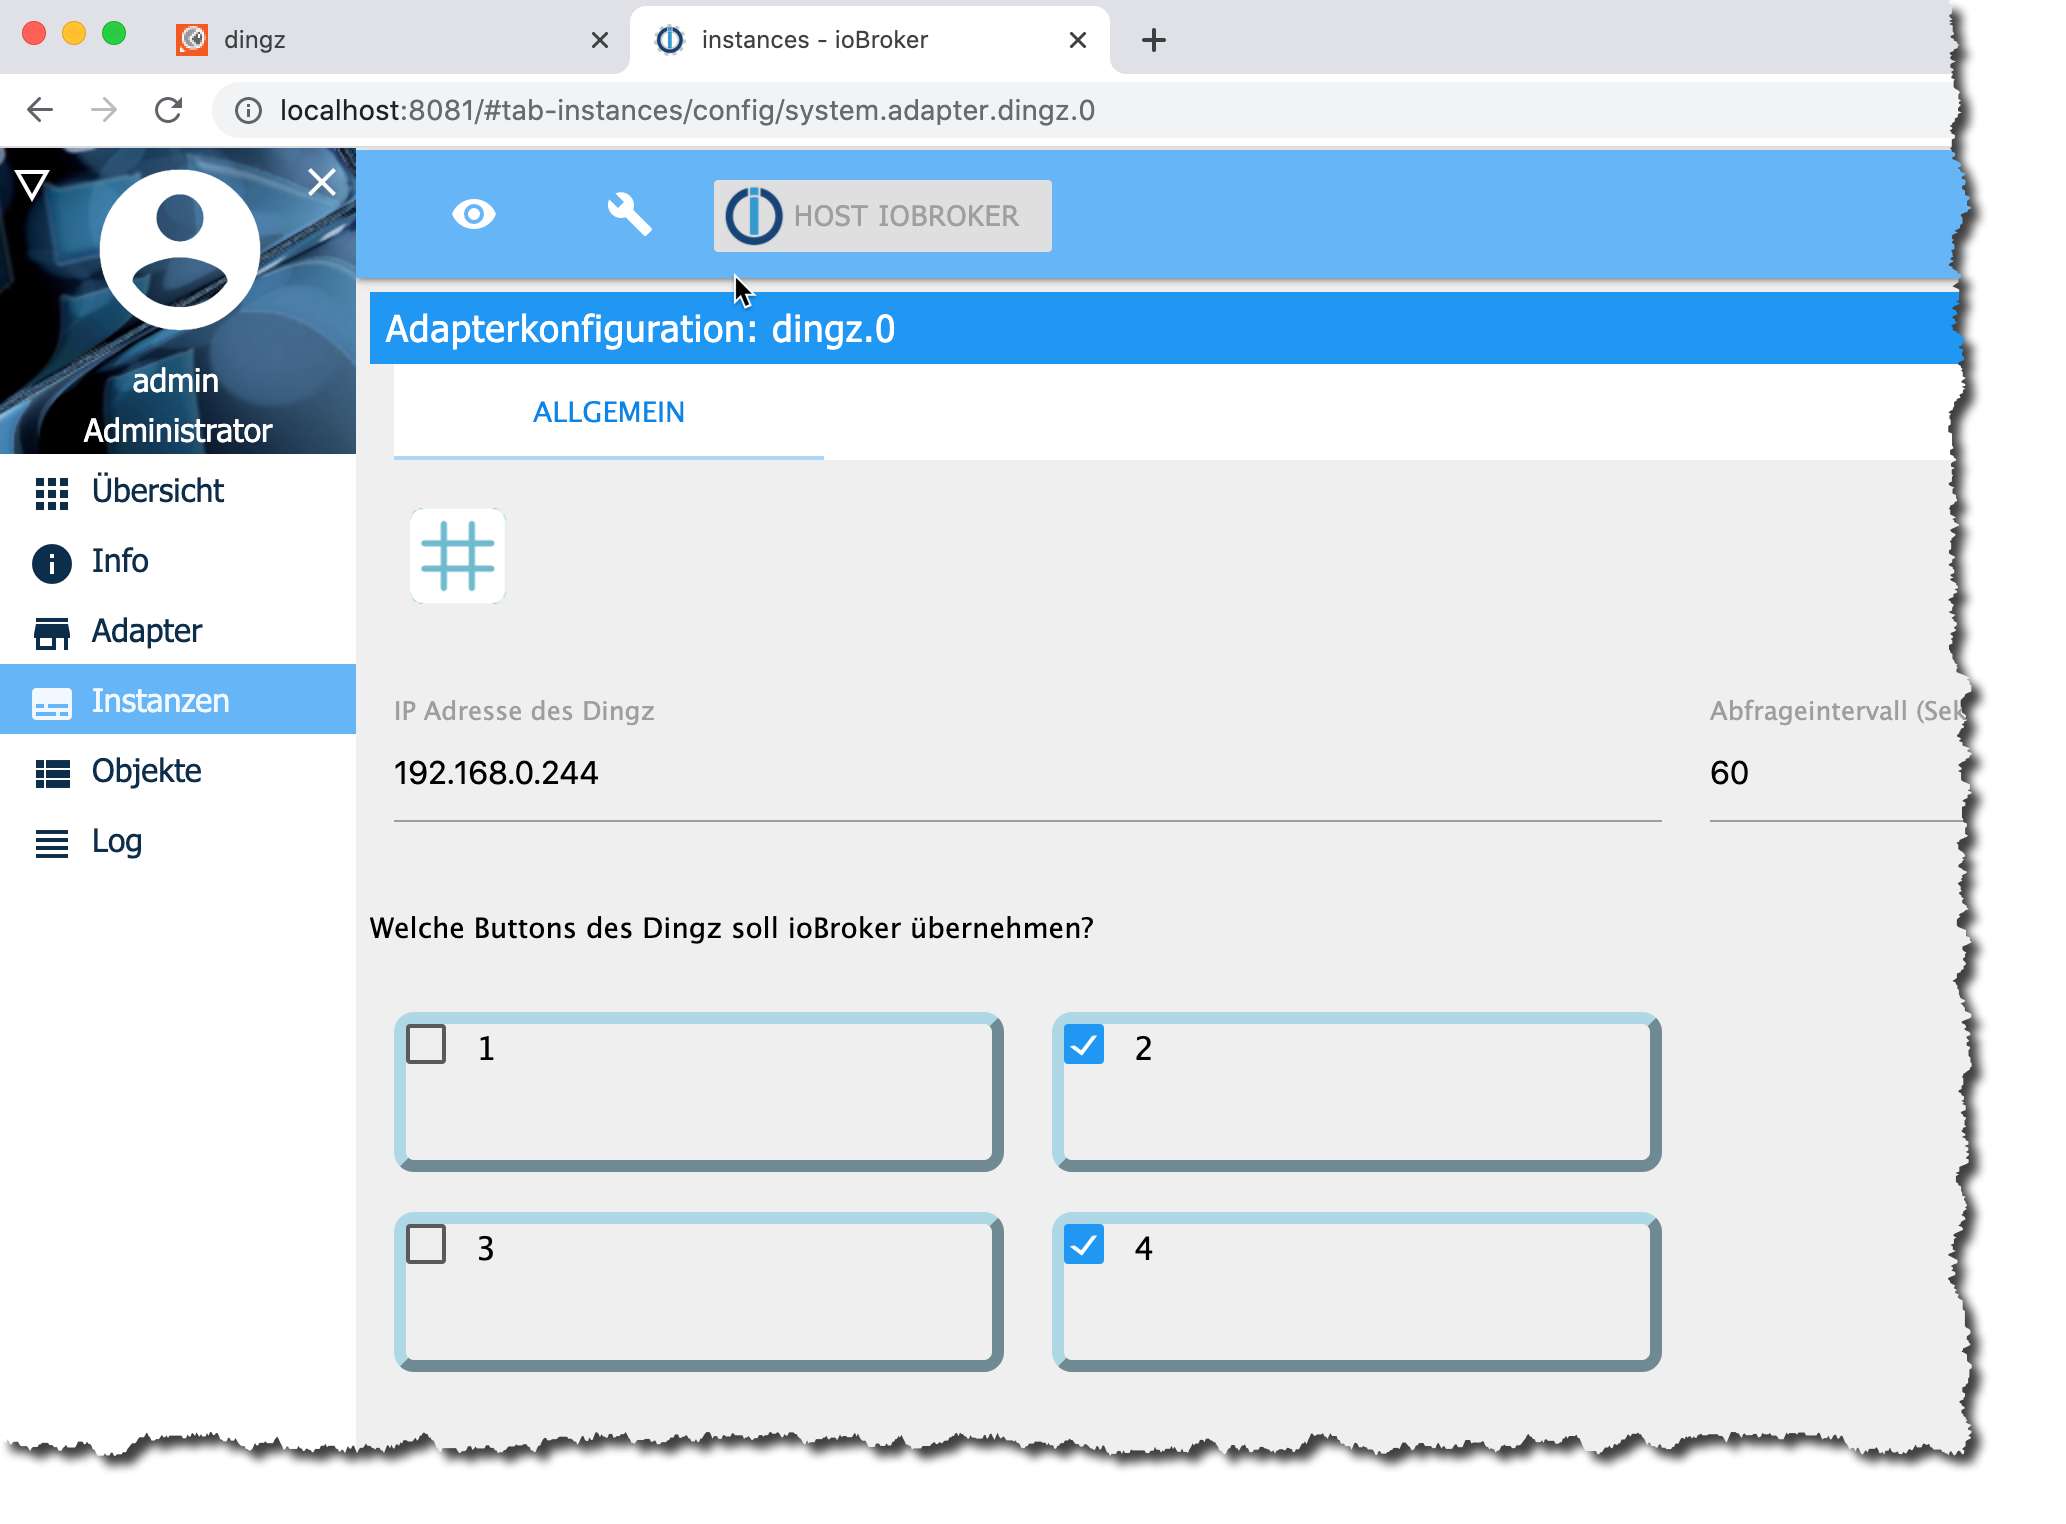
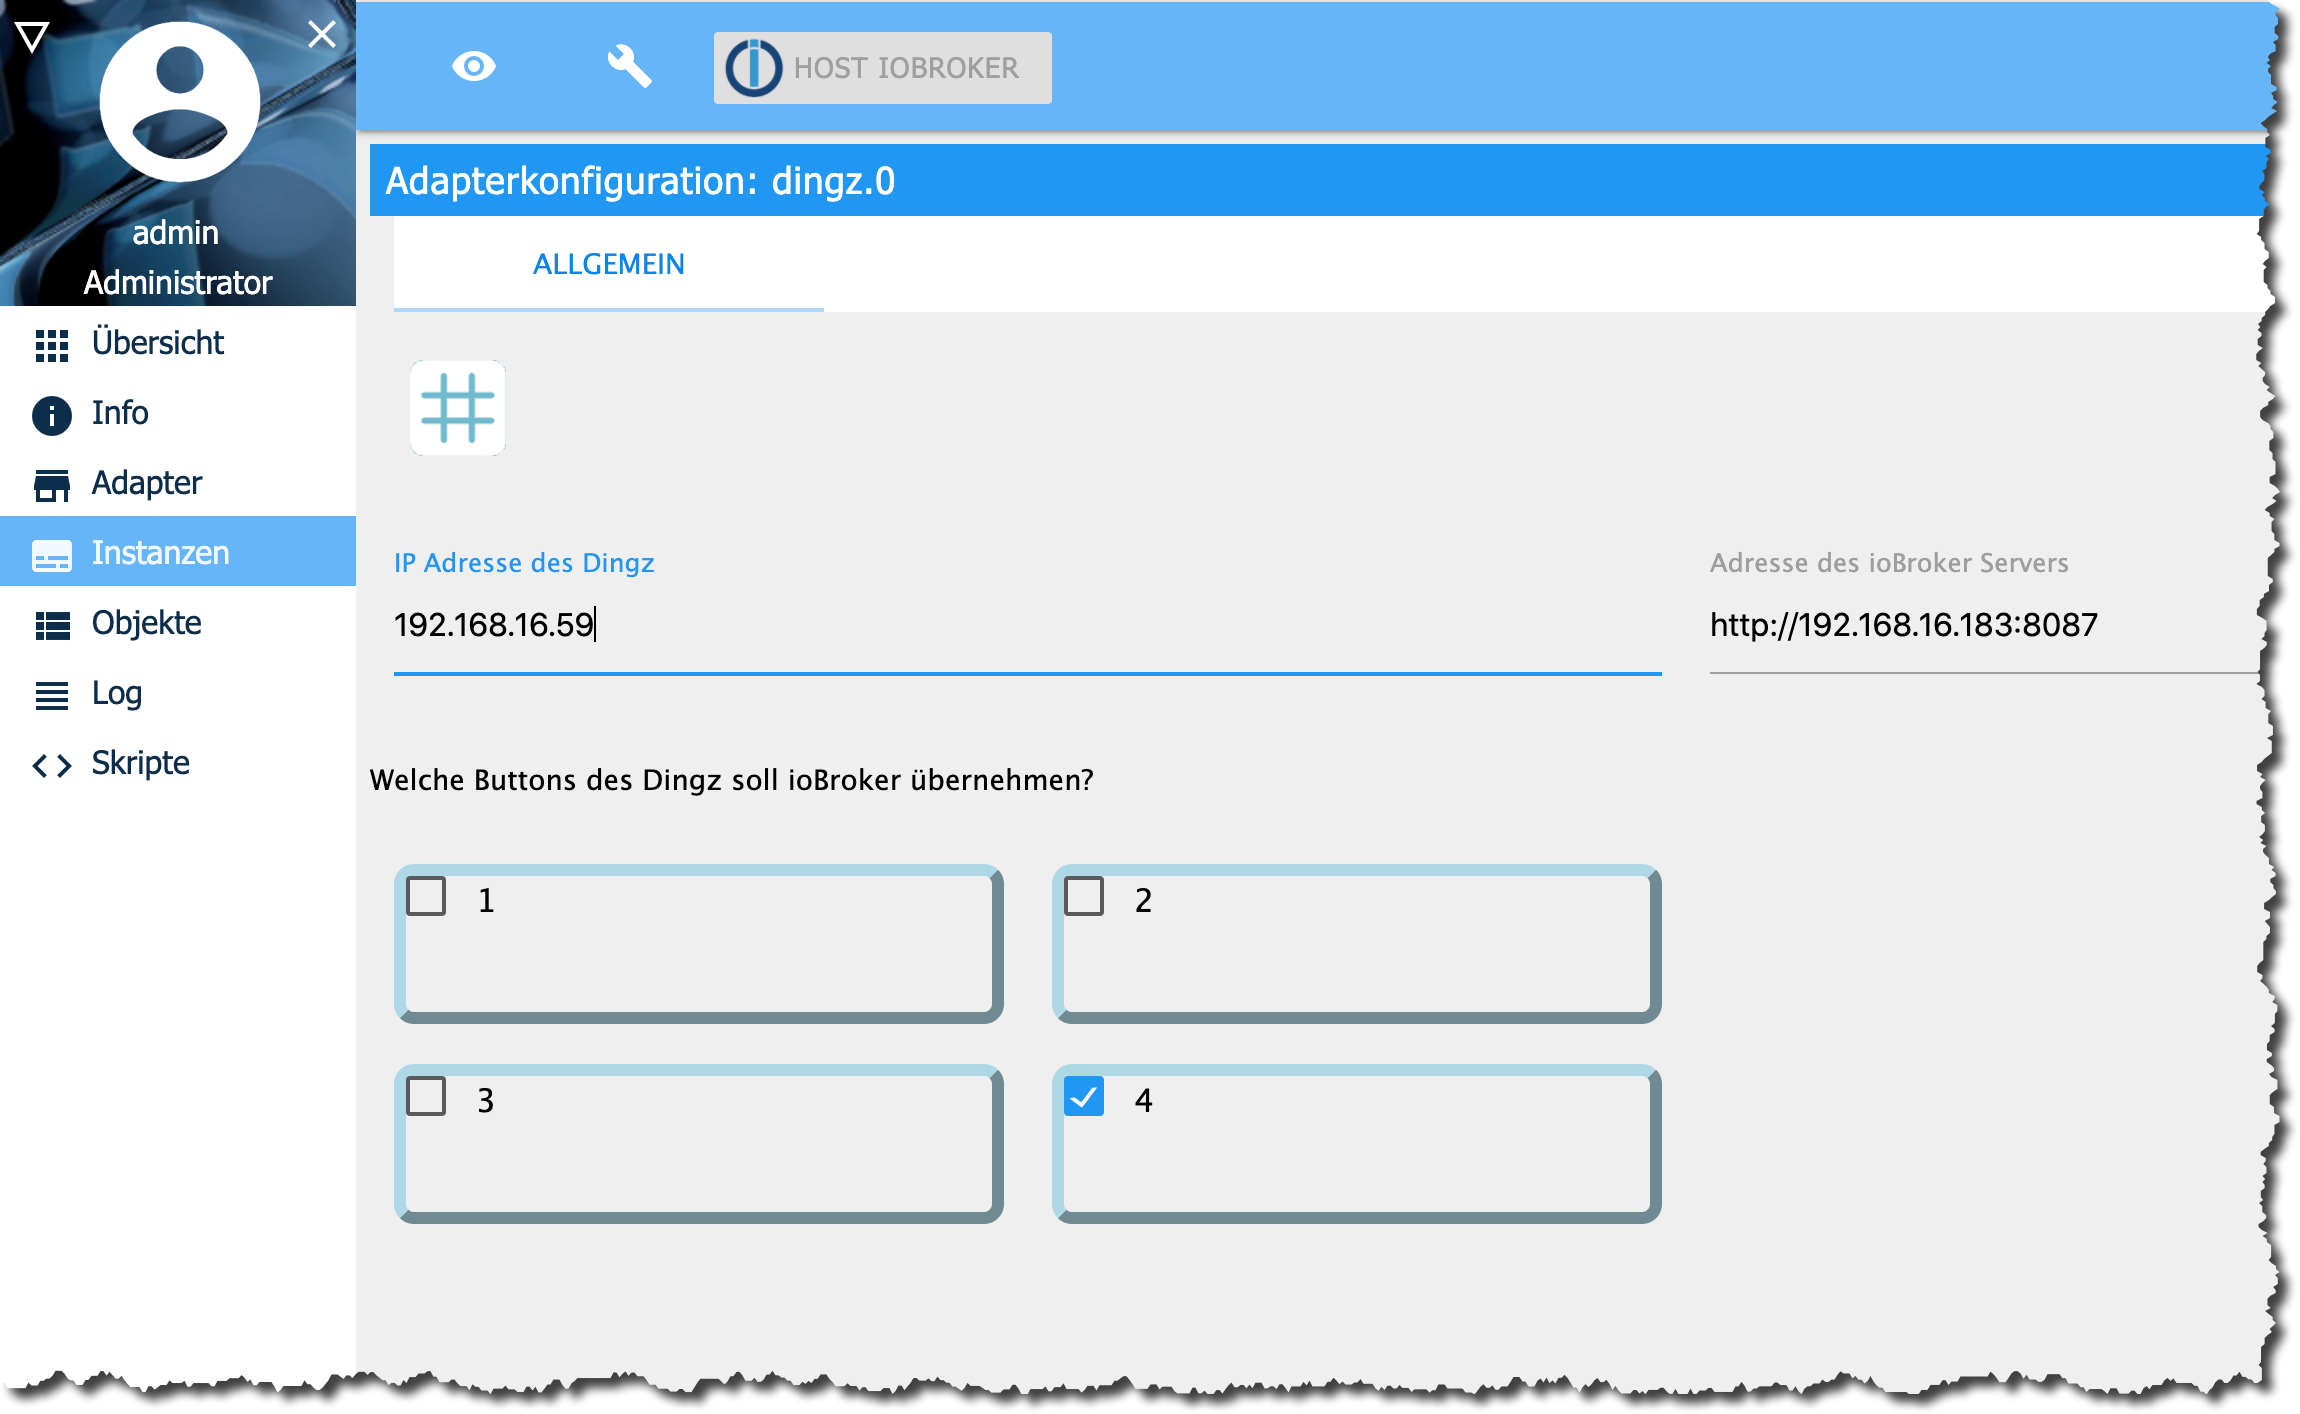
prerelase doc

diff --git a/admin/words.js b/admin/words.js
@@ -2,116 +2,121 @@
 "use strict";
 
 systemDictionary = {
-    "dingz adapter settings": {
-        "en": "Adapter settings for dingz",
-        "de": "Adaptereinstellungen für dingz",
-        "ru": "Настройки адаптера для dingz",
-        "pt": "Configurações do adaptador para dingz",
-        "nl": "Adapterinstellingen voor dingz",
-        "fr": "Paramètres d'adaptateur pour dingz",
-        "it": "Impostazioni dell'adattatore per dingz",
-        "es": "Ajustes del adaptador para dingz",
-        "pl": "Ustawienia adaptera dla dingz",
-        "zh-cn": "dingz的适配器设置"
-    },
-    "url": {
-        "en": "IP address of the device",
-        "de": "IP Adresse des Dingz",
-        "ru": "Опция 1",
-        "pt": "Opção 1",
-        "nl": "Optie 1",
-        "fr": "Option 1",
-        "it": "opzione 1",
-        "es": "Opción 1",
-        "pl": "opcja 1",
-        "zh-cn": "选项1"
-    },
-    "interval": {
-        "en": "polling interval (seconds)",
-        "de": "Abfrageintervall (Sekunden",
-        "ru": "option2",
-        "pt": "opção 2",
-        "nl": "Optie 2",
-        "fr": "Option 2",
-        "it": "opzione 2",
-        "es": "opcion 2",
-        "pl": "Opcja 2",
-        "zh-cn": "选项2"
-    },
-    "myColor": {
-        "en": "myColor",
-        "de": "meineColor",
-        "ru": "Мой цвет",
-        "pt": "minhaCor",
-        "nl": "mijnKleur",
-        "fr": "maCouleur",
-        "it": "mioColore",
-        "es": "miColor",
-        "pl": "mójKolor",
-        "zh-cn": "我的颜色"
-    },
-    "myColor_tooltip": {
-        "en": "Description of\nmyColor",
-        "de": "Beschreibung von\nmyColor",
-        "ru": "Описание\nmyColor",
-        "pt": "Descrição de\nmyColor",
-        "nl": "Beschrijving van\nmyColor",
-        "fr": "Description de\nmyColor",
-        "it": "Descrizione di\nmyColor",
-        "es": "Descripción de\nmyColor",
-        "pl": "Opis\nmyColor",
-        "zh-cn": "\nmyColor的描述"
-    },
-    "htmlText": {
-        "en": "htmlText",
-        "de": "htmlText",
-        "ru": "htmlText",
-        "pt": "htmlText",
-        "nl": "htmlText",
-        "fr": "htmlText",
-        "it": "htmlText",
-        "es": "htmlText",
-        "pl": "htmlText",
-        "zh-cn": "htmlText"
-    },
-    "group_extraMyset": {
-        "en": "extraMyset",
-        "de": "extraMyset",
-        "ru": "extraMyset",
-        "pt": "extraMyset",
-        "nl": "extraMyset",
-        "fr": "extraMyset",
-        "it": "extraMyset",
-        "es": "extraMyset",
-        "pl": "extraMyset",
-        "zh-cn": "extraMyset"
-    },
-    "extraAttr": {
-        "en": "extraAttr",
-        "de": "extraAttr",
-        "ru": "extraAttr",
-        "pt": "extraAttr",
-        "nl": "extraAttr",
-        "fr": "extraAttr",
-        "it": "extraAttr",
-        "es": "extraAttr",
-        "pl": "extraAttr",
-        "zh-cn": "extraAttr"
-    },
-    "Instance": {
-        "en": "Instance",
-        "de": "Instanz",
-        "ru": "Инстанция",
-        "pt": "Instância",
-        "nl": "Instantie",
-        "fr": "Instance",
-        "it": "Esempio",
-        "es": "Instancia",
-        "pl": "Instancja",
-        "zh-cn": "例"
-    },
-    "hostadress":{
-      "en": "Address of ioBroker host",
-      "de": "Adresse des ioBroker Servers"
-    }
+  "dingz adapter settings": {
+    "en": "Adapter settings for dingz",
+    "de": "Adaptereinstellungen für dingz",
+    "ru": "Настройки адаптера для dingz",
+    "pt": "Configurações do adaptador para dingz",
+    "nl": "Adapterinstellingen voor dingz",
+    "fr": "Paramètres d'adaptateur pour dingz",
+    "it": "Impostazioni dell'adattatore per dingz",
+    "es": "Ajustes del adaptador para dingz",
+    "pl": "Ustawienia adaptera dla dingz",
+    "zh-cn": "dingz的适配器设置"
+  },
+  "url": {
+    "en": "IP address of the device",
+    "de": "IP Adresse des Dingz",
+    "ru": "Опция 1",
+    "pt": "Opção 1",
+    "nl": "Optie 1",
+    "fr": "Option 1",
+    "it": "opzione 1",
+    "es": "Opción 1",
+    "pl": "opcja 1",
+    "zh-cn": "选项1"
+  },
+  "interval": {
+    "en": "polling interval (seconds)",
+    "de": "Abfrageintervall (Sekunden",
+    "ru": "option2",
+    "pt": "opção 2",
+    "nl": "Optie 2",
+    "fr": "Option 2",
+    "it": "opzione 2",
+    "es": "opcion 2",
+    "pl": "Opcja 2",
+    "zh-cn": "选项2"
+  },
+  "myColor": {
+    "en": "myColor",
+    "de": "meineColor",
+    "ru": "Мой цвет",
+    "pt": "minhaCor",
+    "nl": "mijnKleur",
+    "fr": "maCouleur",
+    "it": "mioColore",
+    "es": "miColor",
+    "pl": "mójKolor",
+    "zh-cn": "我的颜色"
+  },
+  "myColor_tooltip": {
+    "en": "Description of\nmyColor",
+    "de": "Beschreibung von\nmyColor",
+    "ru": "Описание\nmyColor",
+    "pt": "Descrição de\nmyColor",
+    "nl": "Beschrijving van\nmyColor",
+    "fr": "Description de\nmyColor",
+    "it": "Descrizione di\nmyColor",
+    "es": "Descripción de\nmyColor",
+    "pl": "Opis\nmyColor",
+    "zh-cn": "\nmyColor的描述"
+  },
+  "htmlText": {
+    "en": "htmlText",
+    "de": "htmlText",
+    "ru": "htmlText",
+    "pt": "htmlText",
+    "nl": "htmlText",
+    "fr": "htmlText",
+    "it": "htmlText",
+    "es": "htmlText",
+    "pl": "htmlText",
+    "zh-cn": "htmlText"
+  },
+  "group_extraMyset": {
+    "en": "extraMyset",
+    "de": "extraMyset",
+    "ru": "extraMyset",
+    "pt": "extraMyset",
+    "nl": "extraMyset",
+    "fr": "extraMyset",
+    "it": "extraMyset",
+    "es": "extraMyset",
+    "pl": "extraMyset",
+    "zh-cn": "extraMyset"
+  },
+  "extraAttr": {
+    "en": "extraAttr",
+    "de": "extraAttr",
+    "ru": "extraAttr",
+    "pt": "extraAttr",
+    "nl": "extraAttr",
+    "fr": "extraAttr",
+    "it": "extraAttr",
+    "es": "extraAttr",
+    "pl": "extraAttr",
+    "zh-cn": "extraAttr"
+  },
+  "Instance": {
+    "en": "Instance",
+    "de": "Instanz",
+    "ru": "Инстанция",
+    "pt": "Instância",
+    "nl": "Instantie",
+    "fr": "Instance",
+    "it": "Esempio",
+    "es": "Instancia",
+    "pl": "Instancja",
+    "zh-cn": "例"
+  },
+  "hostadress": {
+    "en": "Address of ioBroker host",
+    "de": "Adresse des ioBroker Servers"
+  },
+  "whichbutton": {
+    "en": "Which of the dingz buttons should ioBroker control?",
+    "de": "Welche Buttons des Dingz soll ioBroker übernehmen?"
+
+  }
 };

diff --git a/admin/index_m.html b/admin/index_m.html
@@ -64,7 +64,7 @@
           </div>
         </div>
         <div class="row">
-          <p>Welche Buttons des Dingz soll ioBroker übernehmen?</p>
+          <p class="translate">whichbutton</p>
         </div>
         <div class="row">
           <div class="col s6 m3">

diff --git a/src/udp.ts b/src/udp.ts
@@ -1,3 +1,11 @@
+/**
+ * ioBroker.dingz: Connect Dingz (http://www.dingz.ch) with ioBroker
+ * Copyright (c) 2020 by G. Weirich
+ * License: See LICENSE
+ *
+ * UDP Discovery of Dingz
+ * */
+
 import * as dgram from "dgram"
 import { EventEmitter } from "events"
 

diff --git a/admin/style.css b/admin/style.css
@@ -15,5 +15,3 @@
   min-width: 200px;
   min-height: 80px;
 }
-
-/* Add your styles here */
